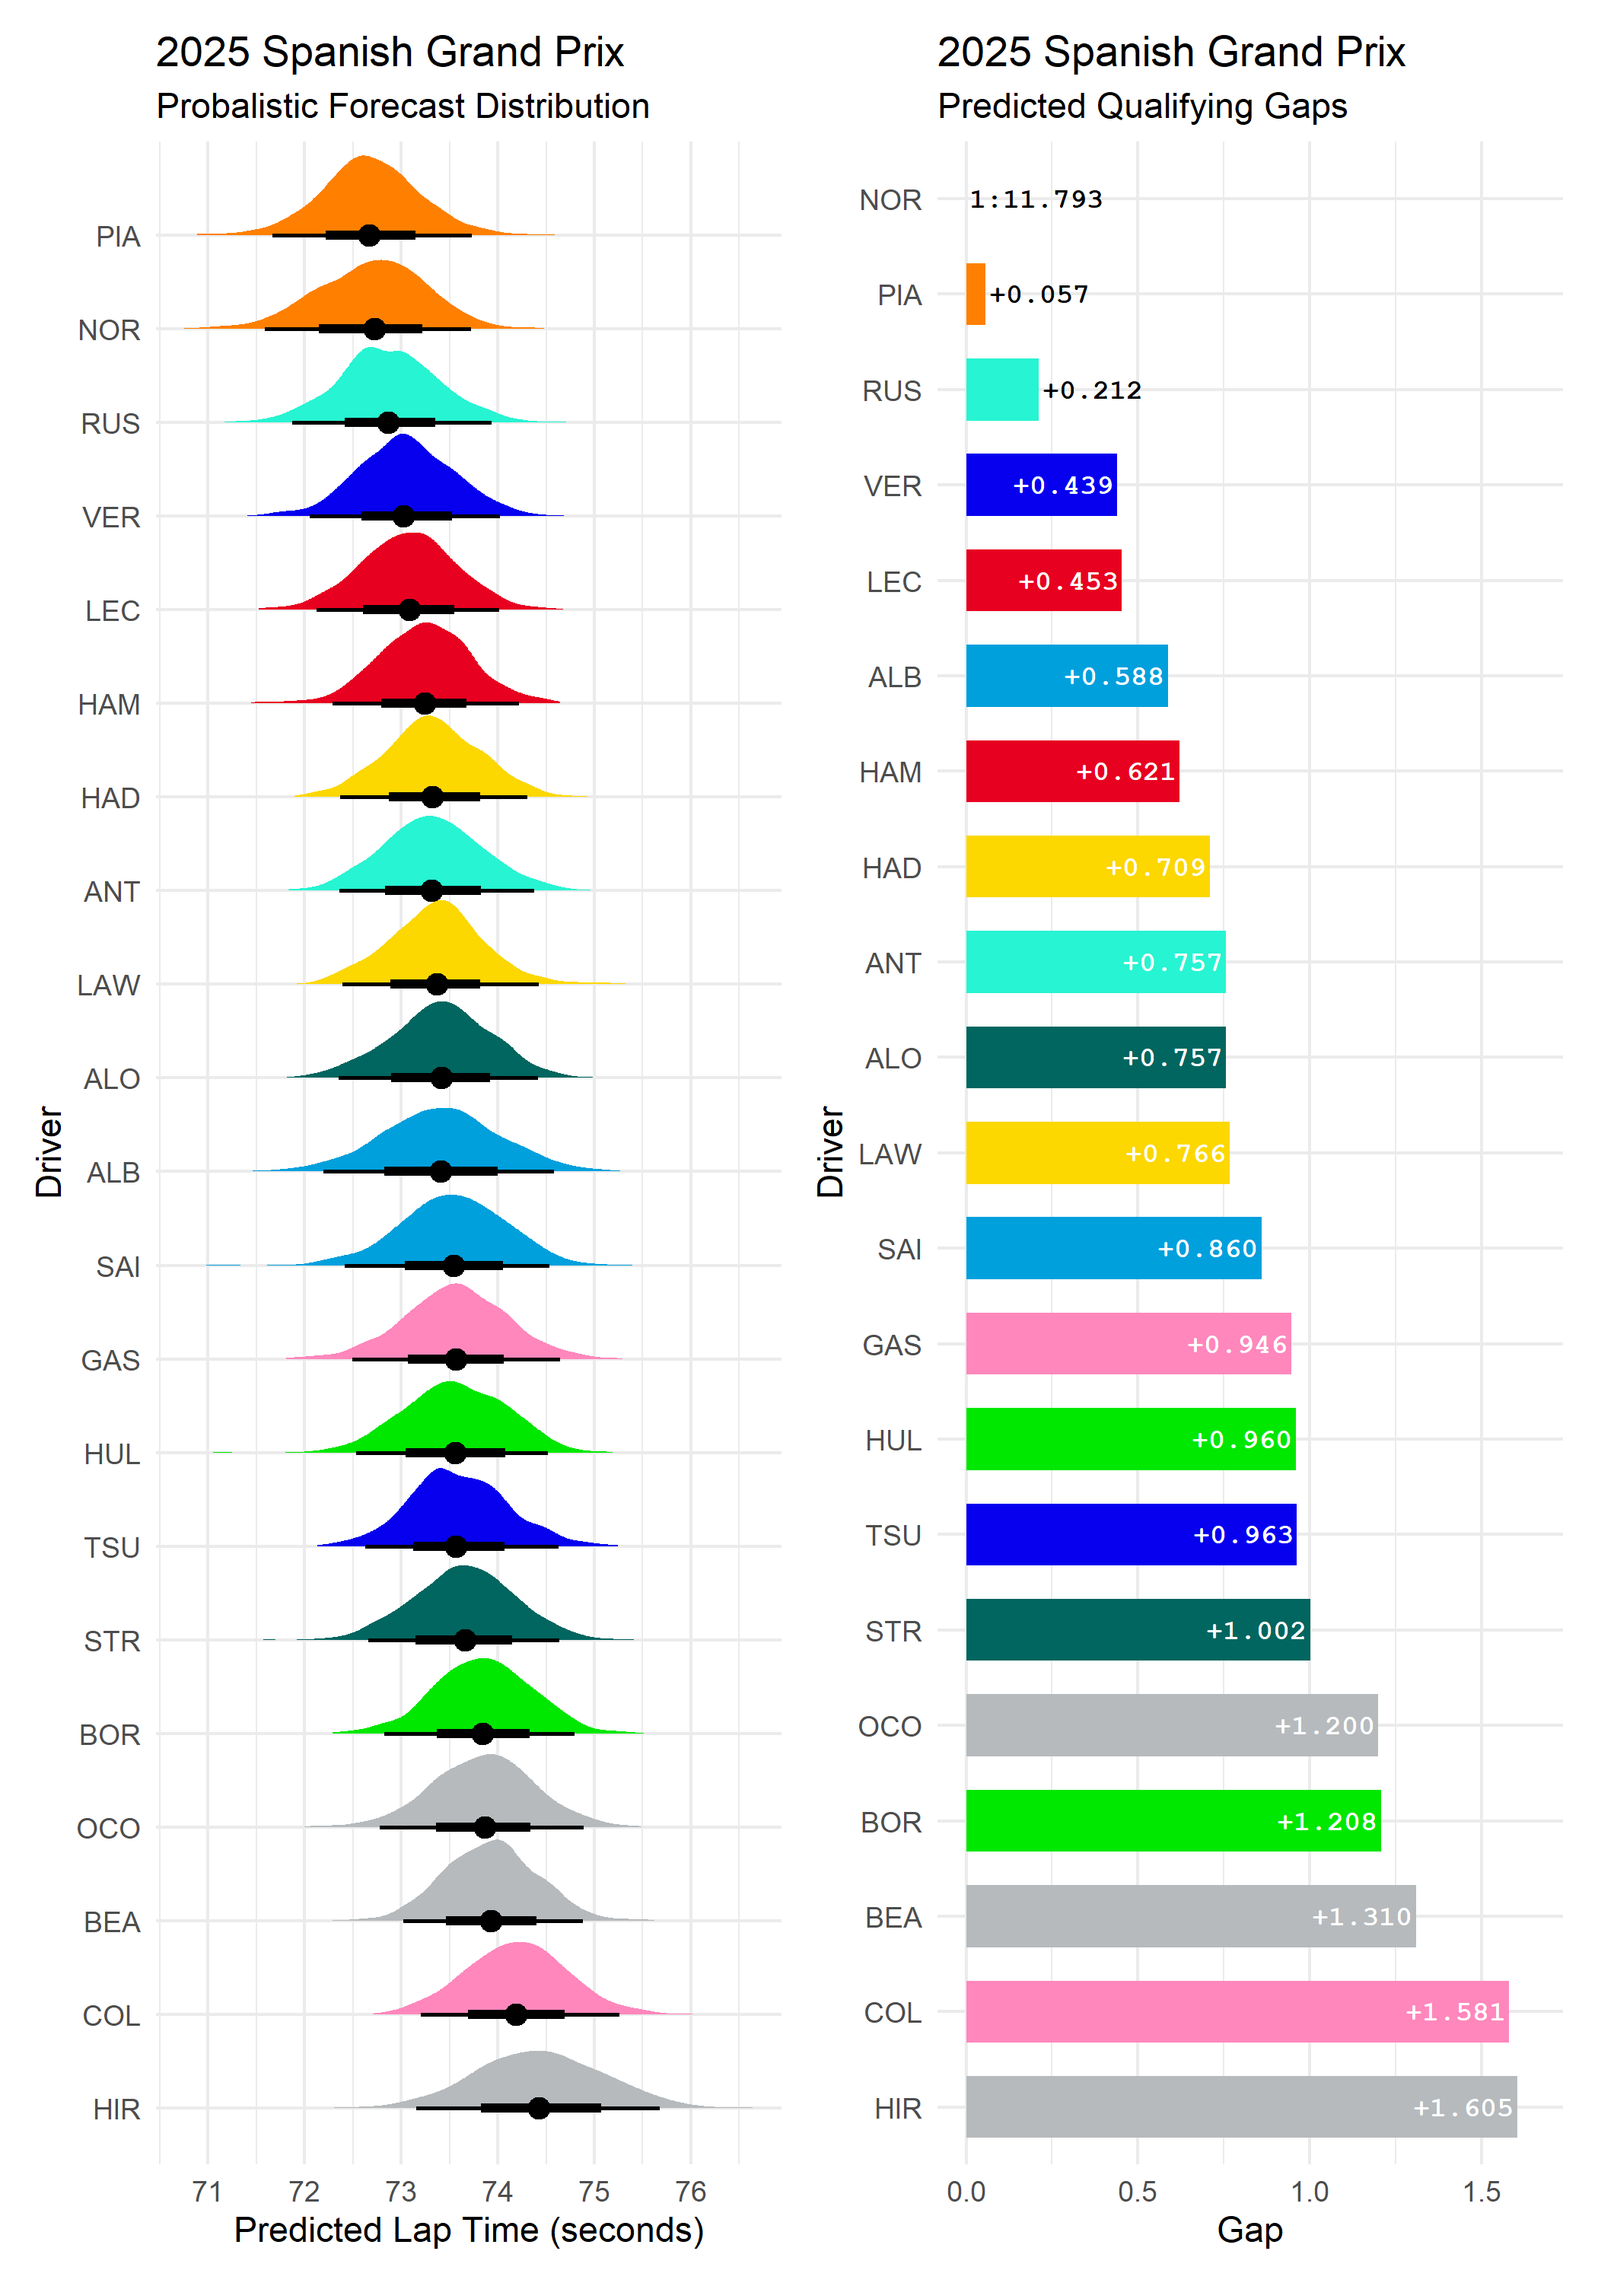
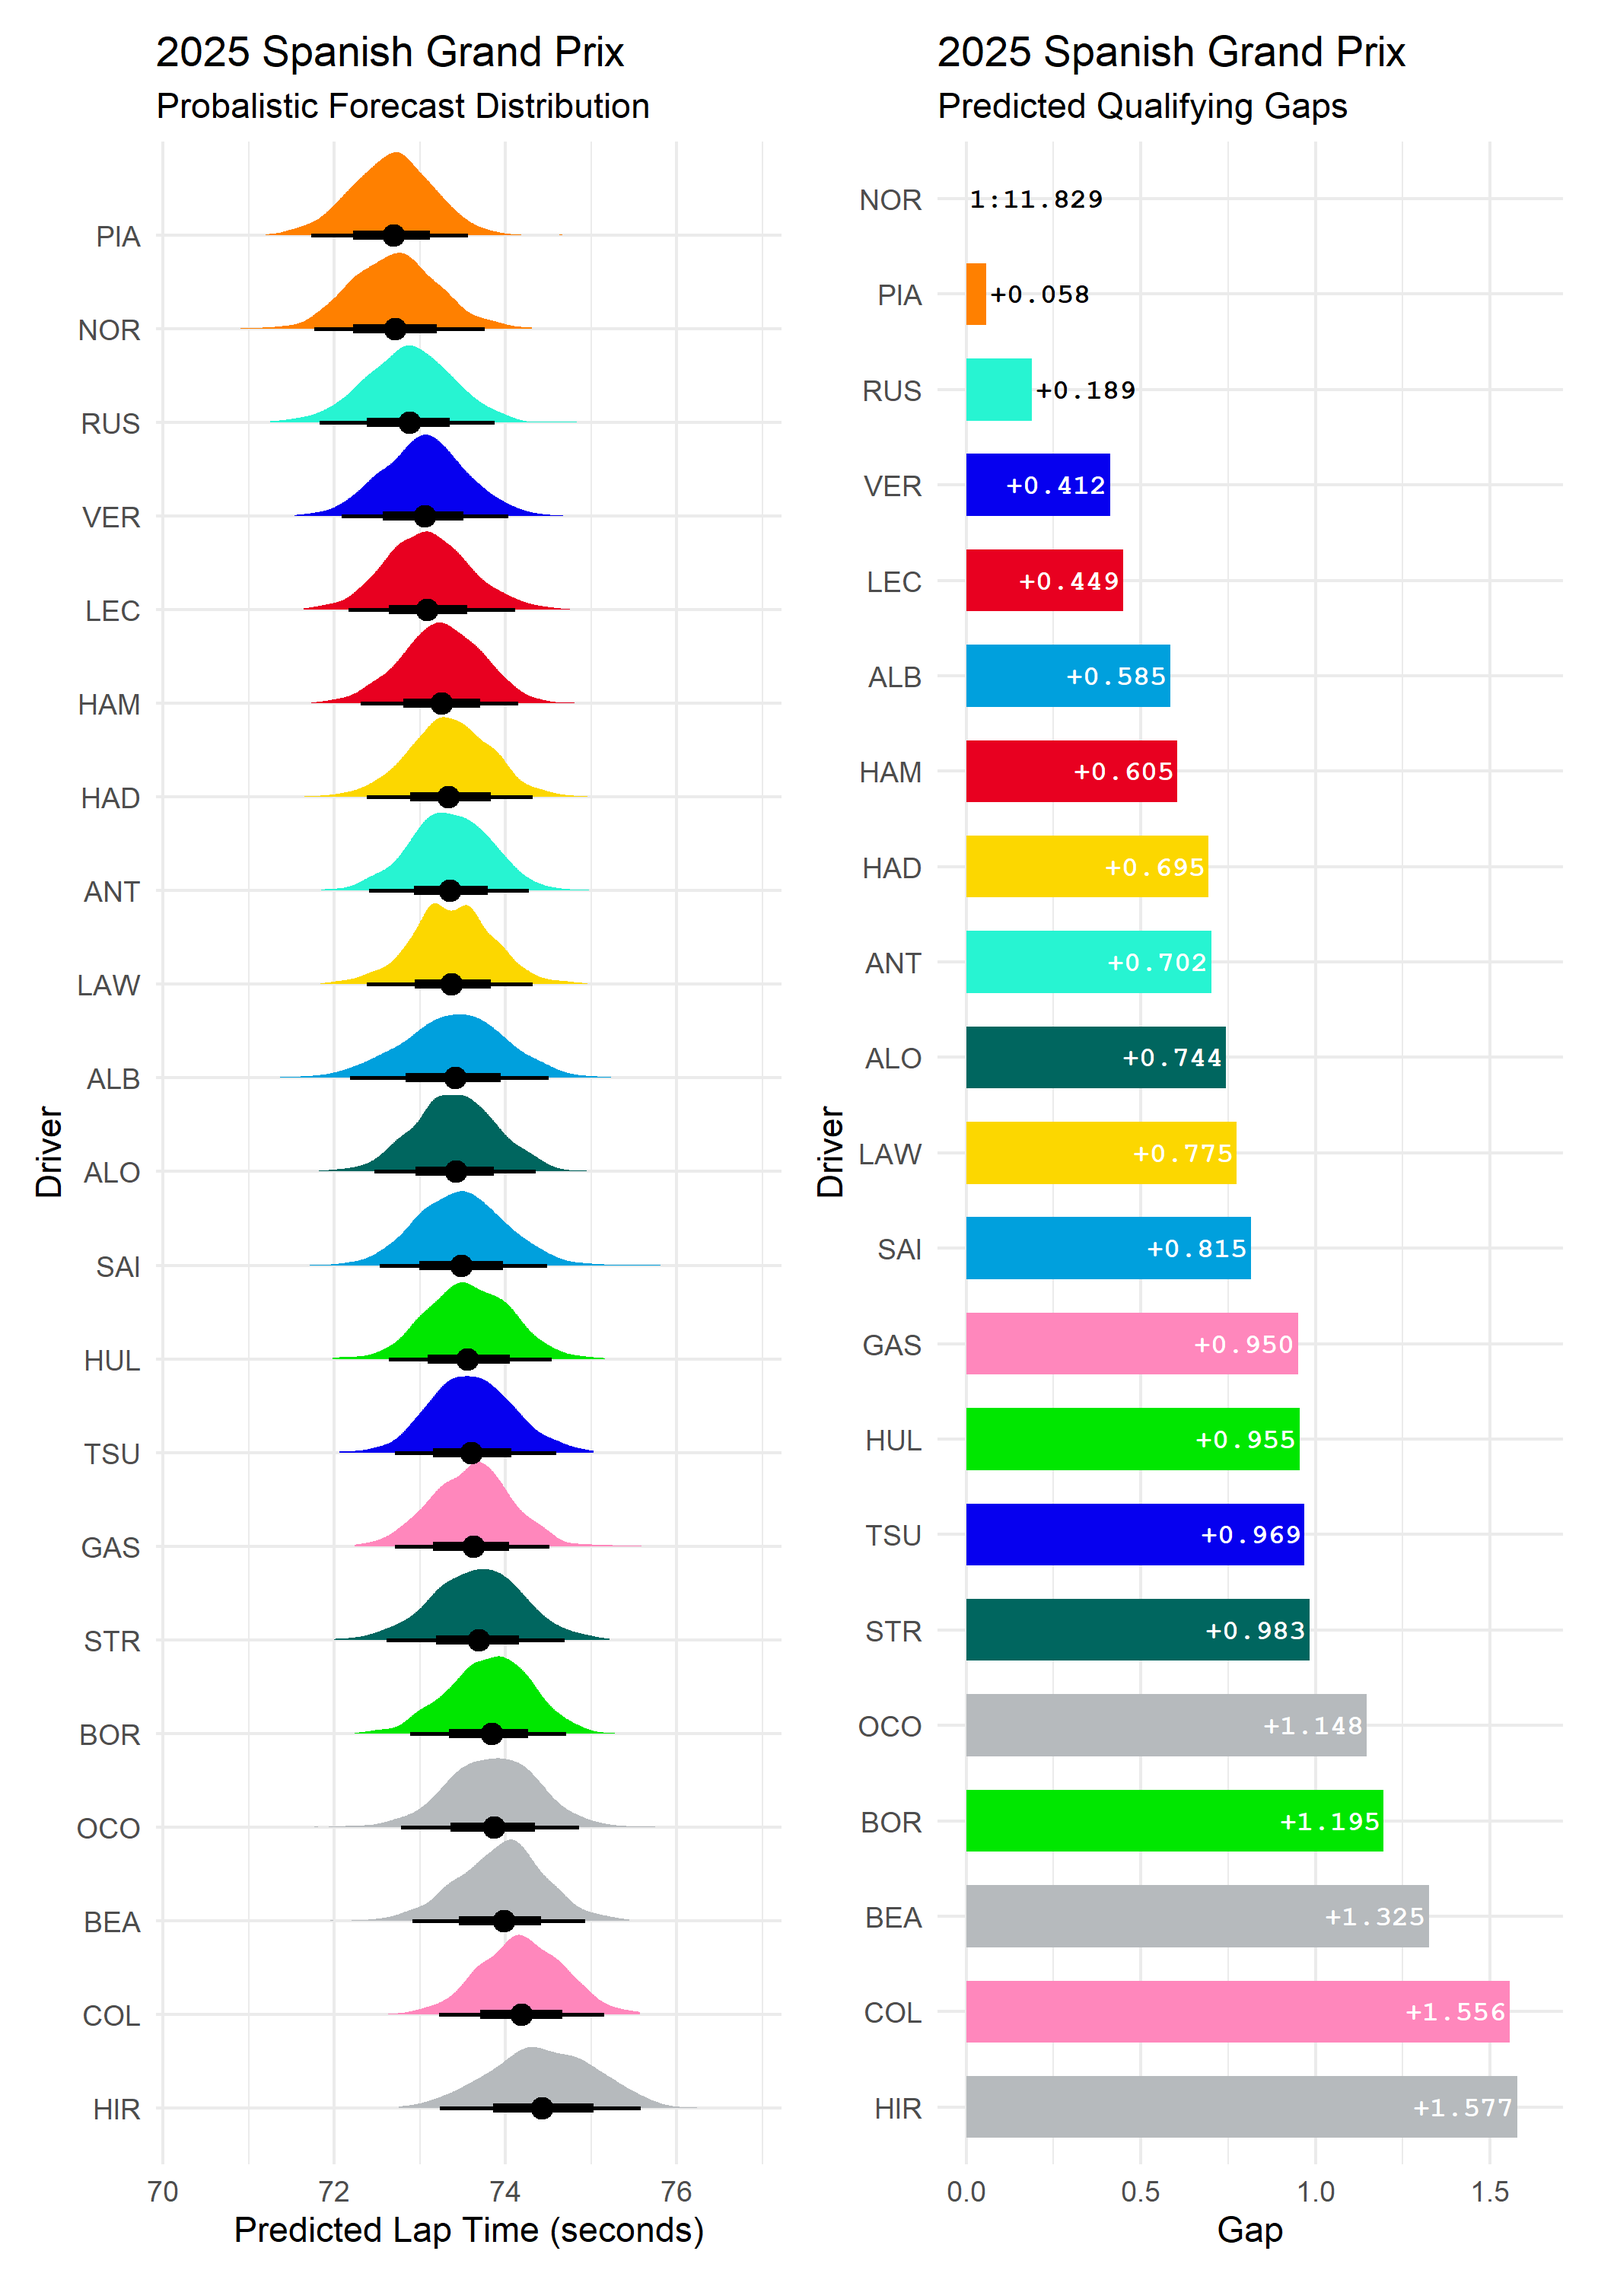
add additional workflow descriptions

diff --git a/docs/vignettes/bayesian_model_vignette.md b/docs/vignettes/bayesian_model_vignette.md
@@ -1,6 +1,6 @@
 Bayesian statistics model methodology
 ================
-Compiled: 2026-05-07
+Compiled: 2026-06-05
 
 This vignette highlights the reasoning and methodology used to generate
 qualifying predictions using a probabilistic Bayesian hierarchical
@@ -9,8 +9,8 @@ model.
 ### Load in the data
 
 Practice session data for the given year and round is collected via
-`FastF1` using the `python/get_data.py`. You must run this script before
-attempting to generate qualifying time predictions.
+`FastF1`. You must run the `python/get_data.py` script for a given
+season before attempting to generate qualifying time predictions.
 
 ``` r
 library(brms)
@@ -37,21 +37,84 @@ data <- read.csv(glue::glue(here::here("data/processed/all_p_laps_{year}.csv")))
   add_elapsed_time()
 ```
 
-The resulting data frame contains one row per practice lap for the
-specified round.
+<details>
+
+<summary>
+
+Data contains one row per practice lap for the specified round.
+</summary>
+
+    ##                     Time Driver DriverNumber                LapTime LapNumber
+    ## 1 0 days 00:19:38.127000    VER            1 0 days 00:01:16.802000         2
+    ## 2 0 days 00:21:53.120000    VER            1 0 days 00:02:14.993000         3
+    ## 3 0 days 00:23:08.925000    VER            1 0 days 00:01:15.805000         4
+    ## 4 0 days 00:25:30.152000    VER            1 0 days 00:02:21.227000         5
+    ## 5 0 days 00:27:42.570000    VER            1 0 days 00:02:12.418000         6
+    ##   Stint             PitOutTime              PitInTime            Sector1Time
+    ## 1     1                                               0 days 00:00:22.782000
+    ## 2     1                                               0 days 00:00:50.693000
+    ## 3     1                                               0 days 00:00:22.270000
+    ## 4     1                        0 days 00:25:27.453000 0 days 00:00:44.629000
+    ## 5     2 0 days 00:25:43.995000                        0 days 00:00:51.475000
+    ##              Sector2Time            Sector3Time     Sector1SessionTime
+    ## 1 0 days 00:00:30.530000 0 days 00:00:23.490000 0 days 00:18:44.107000
+    ## 2 0 days 00:00:57.385000 0 days 00:00:26.915000 0 days 00:20:28.820000
+    ## 3 0 days 00:00:30.384000 0 days 00:00:23.151000 0 days 00:22:15.390000
+    ## 4 0 days 00:00:56.076000 0 days 00:00:40.522000 0 days 00:23:53.554000
+    ## 5 0 days 00:00:48.210000 0 days 00:00:32.733000 0 days 00:26:21.627000
+    ##       Sector2SessionTime     Sector3SessionTime SpeedI1 SpeedI2 SpeedFL SpeedST
+    ## 1 0 days 00:19:14.637000 0 days 00:19:38.127000     284     291     285     323
+    ## 2 0 days 00:21:26.205000 0 days 00:21:53.120000     106     191     287     108
+    ## 3 0 days 00:22:45.774000 0 days 00:23:08.925000     288     306     287     323
+    ## 4 0 days 00:24:49.630000 0 days 00:25:30.152000     130     155      NA     119
+    ## 5 0 days 00:27:09.837000 0 days 00:27:42.570000     140     234     288     147
+    ##   IsPersonalBest Compound TyreLife FreshTyre            Team
+    ## 1           True     HARD        2      True Red Bull Racing
+    ## 2          False     HARD        3      True Red Bull Racing
+    ## 3           True     HARD        4      True Red Bull Racing
+    ## 4          False     HARD        5      True Red Bull Racing
+    ## 5          False     HARD        6     False Red Bull Racing
+    ##             LapStartTime        LapStartDate TrackStatus Position Deleted
+    ## 1 0 days 00:18:21.325000 2025-05-30 11:35:07           1       NA      NA
+    ## 2 0 days 00:19:38.127000 2025-05-30 11:36:24           1       NA      NA
+    ## 3 0 days 00:21:53.120000 2025-05-30 11:38:39           1       NA      NA
+    ## 4 0 days 00:23:08.925000 2025-05-30 11:39:55           1       NA      NA
+    ## 5 0 days 00:25:30.152000 2025-05-30 11:42:16           1       NA      NA
+    ##   DeletedReason FastF1Generated IsAccurate          RoundName Session isSprint
+    ## 1            NA           False       True Spanish Grand Prix     FP1    False
+    ## 2            NA           False       True Spanish Grand Prix     FP1    False
+    ## 3            NA           False       True Spanish Grand Prix     FP1    False
+    ## 4            NA           False      False Spanish Grand Prix     FP1    False
+    ## 5            NA           False      False Spanish Grand Prix     FP1    False
+    ##   LapTime_sec Weekend_Mins_Elapsed
+    ## 1      76.802             3.070950
+    ## 2     134.993             4.350983
+    ## 3      75.805             6.600867
+    ## 4     141.227             7.864283
+    ## 5     132.418            10.218067
+
+</details>
 
 ### Filter the practice session data
 
-To improve the accuracy of the qualifying simulation, laps are filtered
-to retain only those representative of a low-fuel, single-lap
-‘qualifying’ efforts. Laps on used tyres, in-laps, out-laps, and those
-affected by traffic or yellow flags are removed. A maximum stint length
-of `max_stint` laps is applied to exclude long run data, and the 107%
-rule drops any remaining outliers that would distort the prior.
+Practice laps are filtered to retain only those representative of a
+low-fuel, single-lap ‘qualifying’ efforts. Laps on used tyres, in-laps,
+out-laps, and those affected by traffic or yellow flags are removed. A
+maximum stint length of `max_stint` laps is applied to exclude long run
+data, and the 107% rule drops any remaining outliers that would distort
+the prior.
+
+> NOTE: To improve the accuracy of the qualifying simulation by
+> increasing accepted lap times, sprint weekend filtering approaches
+> differ to include all laps from each driver’s fastest stint,
+> regardless of compound or length.
 
 ``` r
+# Sprint flag
+sprint_flag <- unique(as.logical(data$isSprint))
+
 # Filter for qualifying runs
-quali_data <- filter_qualifying_laps(data, max_stint = max_stint)
+quali_data <- filter_qualifying_laps(data, max_stint, is_sprint = sprint_flag)
 stopifnot(mean(is.na(data$LapTime_sec)) < 0.1)
 
 # Apply 107% rule
@@ -66,12 +129,13 @@ The model intercept is centred at the median session lap time
 regularising prior that prevents prediction of physically impossible lap
 times. Standard deviation and residual error priors use
 `exponential(1)`, placing a mean of approximately one second on both the
-between-driver spread and the within-driver noise, which is a plausible
-loose prior for a modern F1.
+between-driver spread and the within-driver noise.
 
-Applying a Gaussian likelihood provides a highly robust and
-computationally efficient approximation for valid push laps, which tend
-to cluster tightly towards the mean.
+A Gaussian family fit provides a highly robust and computationally
+efficient approximation for valid push laps, which tend to cluster
+tightly towards the mean.
+
+<img src="bayesian_model_vignette_files/figure-gfm/distribution-1.png" alt="" width="100%" style="display: block; margin: auto;" />
 
 ``` r
 # Intercept prior centres the median lap time
@@ -98,6 +162,12 @@ fit_quali <- brm(
   stan_model_args = list(stanc_options = list("O1"))
 )
 ```
+
+> NOTE: Sprint format weekends include additional model formula
+> parameters (`LapTime_sec | weights(Weighting)` and
+> `sigma ~ log(LapCount)` to factor for the different stint lengths or
+> compounds) and priors, currently defining the MEDIUM and HARD
+> compounds as 0.5 and 1.0 units slower than the SOFT, respectively.
 
 This approach attempts to account for the track evolution over the
 weekend (`log(Weekend_Mins_Elapsed + 1)`) to pull lap times down as the
